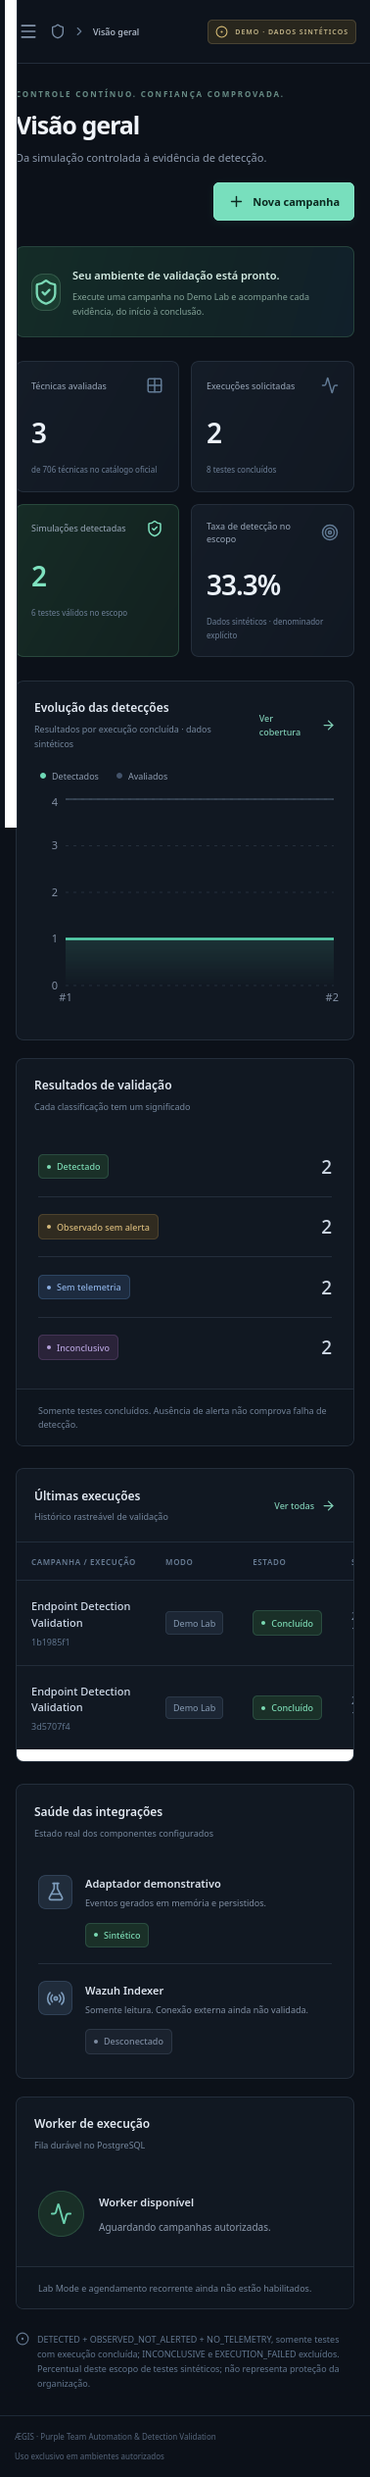
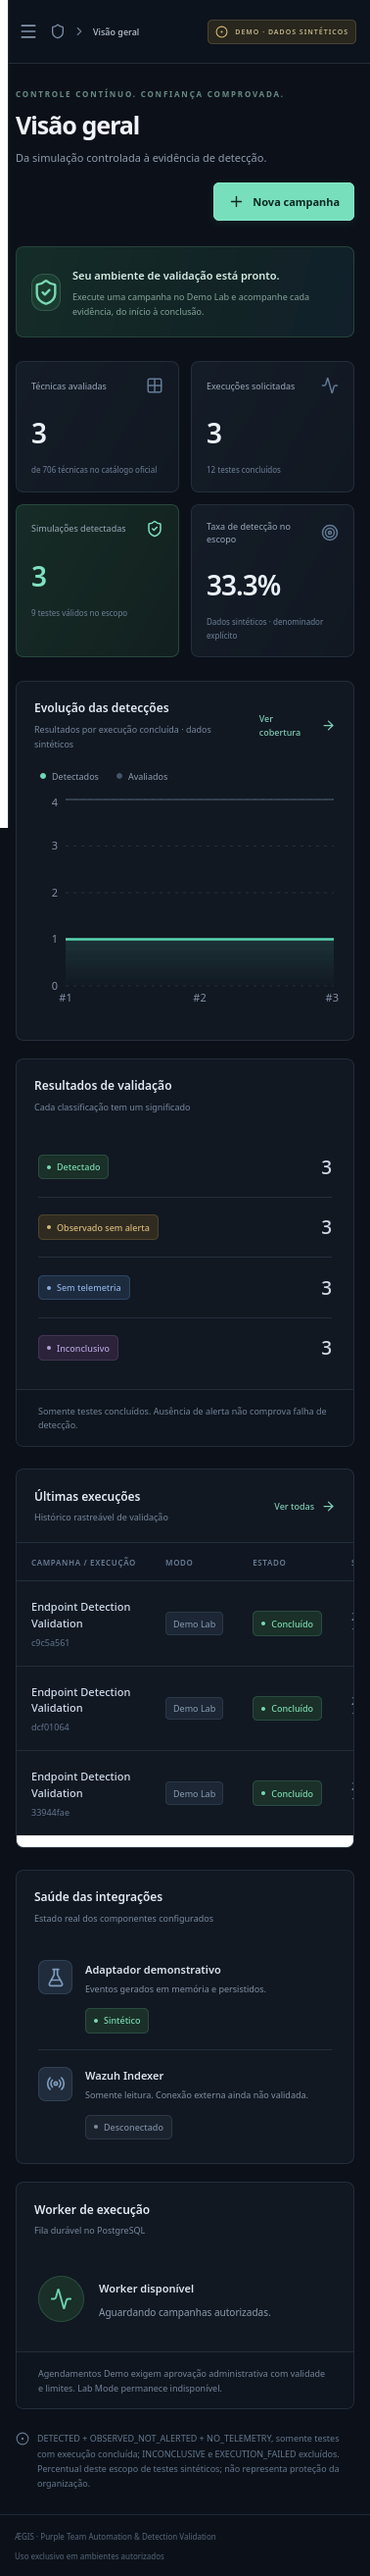
docs(demo): publish validated scheduling workflow and real application captures

diff --git a/README.md b/README.md
@@ -6,7 +6,7 @@ Simulações controladas, resultados reproduzíveis e decisões de detecção su
 
 Equipes defensivas precisam verificar se seus controles observam e detectam comportamentos de ataque. O ÆGIS conecta campanhas, aprovação de escopo, execução, coleta, correlação e acompanhamento histórico num único fluxo.
 
-**Estado: MVP 0.1 em Demo Mode, persistente e executável.** Todos os eventos da demonstração são sintéticos. Lab Mode, execução de Atomic Red Team e validação externa com Wazuh ainda não estão habilitados. Não é um SIEM, EDR ou shell remoto.
+**Estado: MVP 0.1 em Demo Mode, com agendamento aprovado, persistente e executável.** Todos os eventos da demonstração são sintéticos. Lab Mode, execução de Atomic Red Team e validação externa com Wazuh ainda não estão habilitados. Não é um SIEM, EDR ou shell remoto.
 
 ![Dashboard real do Demo Mode, com evidências explicitamente sintéticas](docs/images/overview.png)
 
@@ -17,6 +17,7 @@ Equipes defensivas precisam verificar se seus controles observam e detectam comp
 - Quatro simulações em allowlist demonstrativa, com requisitos, comportamento e cleanup definidos. Arquivo marcador genérico não recebe técnica ATT&CK artificial.
 - Campanhas de escopo imutável, solicitações idempotentes, aprovação administrativa de uso único, expiração, confirmação de início e limite de duração.
 - Worker independente, fila transacional PostgreSQL, claim exclusivo, cancelamento cooperativo, cleanup e recuperação de execuções abandonadas.
+- Agendamentos Demo com aprovação explícita, validade, duração, limite de horários, pausa/revogação e histórico de autorizações.
 - Eventos originais, hashes SHA-256, justificativas de correlação, evidências inspecionáveis e auditoria.
 - Dashboard e métricas da API, denominadores explícitos, comparação de duas execuções e exportação HTML/JSON.
 - Inventário Sigma com parsing pySigma, importação YAML limitada e versões imutáveis; nenhuma implantação automática de regras.
@@ -62,6 +63,10 @@ Isso representa **1 detectado / 3 testes válidos = 33,3% neste escopo sintétic
 
 ![Execução real do aplicativo com resultados demonstrativos](docs/images/execution.png)
 
+Para automatizar: abra **Agendamentos**, crie um plano para a campanha, defina início/fim, intervalo e limite de horários, revise e autorize como administrador. O worker executa automaticamente dentro desses limites. Atrasos acima de 30 segundos e laboratório ocupado geram descartes auditados, consumindo o orçamento sem backlog. Pausar exige nova aprovação para retomar; revogar encerra o plano. [Política e operação](docs/operations/scheduling.md).
+
+![Agendamento Demo real com ocorrência e autorização rastreáveis](docs/images/schedules.png)
+
 ## Arquitetura
 
 ```mermaid
@@ -69,7 +74,7 @@ flowchart LR
   Browser[React / TypeScript] --> API[FastAPI / RBAC / CSRF]
   API --> DB[(PostgreSQL: dados + fila)]
   API --> Redis[(Redis: limites / heartbeat)]
-  Worker[Worker independente] --> DB
+  Worker[Worker independente + dispatcher Demo] --> DB
   Worker --> Demo[ExecutionAdapter Demo]
   Demo --> Telemetry[TelemetryProvider Demo]
   Telemetry --> Validate[Correlação independente de SIEM]
@@ -109,7 +114,7 @@ CI executa lint, tipos, testes, build e auditoria, com cache e cancelamento de e
 - Só o adaptador Demo pode executar. Cancelamento é cooperativo; isolamento de adaptadores bloqueantes é requisito antes de habilitar execução real.
 - Wazuh foi testado com fixtures locais de contrato com identificadores fictícios, não com um servidor externo. Mapeamento entre `Asset.id` interno e `agent.id` real precisa ser conectado no Lab Mode.
 - Sigma validado sintaticamente não equivale a detecção implantada. Associação operacional com testes e conversão de SIEM ficam para próxima etapa.
-- Sem scheduler recorrente, PDF, Caldera ou funções de IA. Relatórios são exportações dos registros persistidos, sem armazenamento de binários no banco.
+- Agendamento habilitado somente para Demo: até 16 planos ativos, 100 horários por plano, mínimo 60 segundos de intervalo e validade máxima de 90 dias. Sem cron livre, Lab real, PDF, Caldera ou funções de IA. Relatórios são exportações dos registros persistidos, sem armazenamento de binários no banco.
 - Há um aviso transitivo conhecido em DiskCache, exigido pelo pySigma. O caminho de parsing usado não importa/utiliza o cache vulnerável; a revisão e sua verificação estão em [advisories](docs/security/dependency-advisories.json). Não alegamos ausência de vulnerabilidades.
 - Instalação padrão é HTTP em loopback. Exposição externa exige TLS, cookie Secure, revisão operacional e gestão própria de segredos. Não anunciar como enterprise-ready.
 

diff --git a/docs/development/testing.md b/docs/development/testing.md
@@ -4,13 +4,13 @@
 
 PostgreSQL real é usado com um schema aleatório por sessão. A fixture aplica Alembic e trunca apenas tabelas desse schema entre testes, removendo o schema criado ao finalizar. Redis utiliza DB 15 nos testes de API, com chaves somente do namespace ÆGIS. Não usar Redis DB 14/15 para dados importantes no ambiente de desenvolvimento.
 
-Suíte cobre identidade/CSRF/RBAC, ausência de segredos nas respostas, limite de payload/login, aprovação e alteração de escopo, estado, concorrência de claim/entrega, cancelamento, timeout, cleanup, recuperação, classificação/correlação, persistência, duplicação, relatório HTML seguro, versão Sigma, YAML inseguro, pinning TLS, paginação Wazuh e upgrade de banco populado.
+Suíte cobre identidade/CSRF/RBAC, ausência de segredos nas respostas, limite de payload/login, aprovação e alteração de escopo, estado, concorrência de claim/entrega, cancelamento, timeout, cleanup, recuperação, classificação/correlação, persistência, duplicação, relatório HTML seguro, versão Sigma, YAML inseguro, pinning TLS, paginação Wazuh e upgrade de banco populado. Agendamentos cobrem grant original, limite persistente, expiração, busy, atraso, rollback, dispatcher concorrente, pausa/retomada, revogação ativa com cleanup e alterações de autorização/escopo.
 
 ## E2E real
 
 `make e2e` constrói a aplicação, cria um schema descartável, aplica migrações e seed, cria administrador com senha aleatória em memória, inicia API/worker separados e utiliza Puppeteer Core com o Firefox do host. Nenhum navegador é instalado automaticamente. Variáveis opcionais: `AEGIS_BROWSER=chrome`, `AEGIS_BROWSER_PATH=/caminho/navegador`. Não desabilitar sandbox ou certificados para passar o teste.
 
-Fluxo: login → catálogo → campanha → revisão/aprovação → início → worker → eventos/evidências → exportação → nova solicitação → nova aprovação → comparação → indicadores → páginas auxiliares → viewport móvel. O script valida respostas reais e produz `docs/images/*.png`. Schemas e processos do teste são removidos em finally; logs ficam em `.local/e2e/`, ignorados pelo Git. Capturas não contêm credenciais.
+Fluxo: login → catálogo → campanha → revisão/aprovação → início → worker → eventos/evidências → exportação → nova solicitação → nova aprovação → comparação → indicadores → criação e aprovação de agendamento → ocorrência automática no worker → relatório com grant de origem → páginas auxiliares → viewport móvel. O script valida respostas reais e produz `docs/images/*.png`. Schemas e processos do teste são removidos em finally; logs ficam em `.local/e2e/`, ignorados pelo Git. Capturas não contêm credenciais.
 
 Fixtures Wazuh usam `httpx.MockTransport`, sem rede, e representam testes de contrato escritos manualmente, com identificadores fictícios; não comprovam integração real. Testes de componentes podem simular respostas para estados vazios/erro, enquanto o fluxo E2E não usa mocks.
 
@@ -19,3 +19,7 @@ Fixtures Wazuh usam `httpx.MockTransport`, sem rede, e representam testes de con
 Na primeira rodada ampliada: 52 testes backend passaram; 3 testes frontend passaram; E2E Firefox concluiu 2 runs / 8 testes sintéticos com zero erros JavaScript. Docker build e Compose completo foram executados, health ready retornou database/redis true, runtime confirmou `aegis_app` sem superuser e sem UPDATE em auditoria. Consulte `docs/PROGRESS.md` para a validação final mais recente e limitações.
 
 Existe aviso de depreciação do upstream Starlette para o transporte httpx de TestClient; os testes executam com sucesso, sem ocultar o aviso. Migração para httpx2 poderá ser avaliada separadamente.
+
+## Marco de agendamento Demo
+
+Na rodada ampliada: **85 testes Python** e **5 testes frontend** passaram; E2E Firefox concluiu **3 runs / 12 testes sintéticos**, incluindo agendamento automático, com zero erros JavaScript. O smoke Compose inclui run manual e agendada, verificação de grant, relatório e revogação usando API/worker com papel SQL restrito. Consulte PROGRESS para comandos e CI final.

diff --git a/CHANGELOG.md b/CHANGELOG.md
@@ -9,3 +9,10 @@
 - Migrações, Compose, hardening de runtime, testes de integração e E2E em Firefox com capturas reais.
 - Git privado, somente main e commits/pushes granulares. CI com cache e cancelamento de redundâncias.
 - Limitações: Lab Mode, Atomic executável, Wazuh externo, scheduler e PDF ainda não habilitados; advisory DiskCache herdado registrado com análise do caminho de parsing.
+
+## Continuidade — agendamento Demo aprovado
+
+- Planos recorrentes sob confirmação explícita administrativa, snapshot/hash, prazo e orçamento persistentes.
+- Dispatcher transacional, deduplicação por slot, descartes auditados por atraso/ocupação, pausa/revogação e grant exato por execução.
+- UI e APIs reais, histórico, origem agendada no relatório, privilégios SQL por coluna e cleanup protegido.
+- Testes PostgreSQL concorrentes, fluxo de navegador com ocorrência automática e smoke do Compose com SQL runtime restrito.
